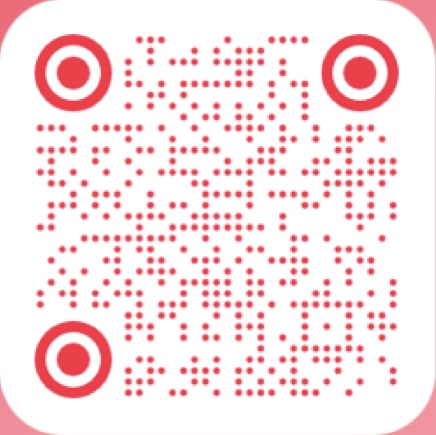
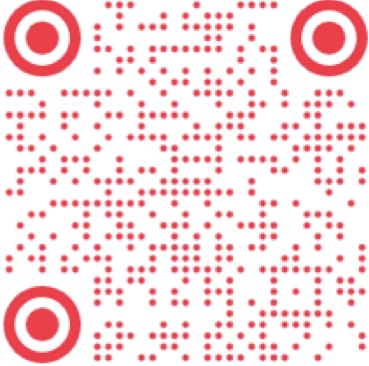
Change webapp destination

diff --git a/_includes/header.html b/_includes/header.html
@@ -32,12 +32,12 @@
 				</a></li>
 			{% endif %}
 			{% if site.presskit_download_link %}
-			<li><a href="{{ site.presskit_download_link }}">
+			<li><a href="{{ site.presskit_download_link2 }}">
 					发现
 				</a></li>
 			{% endif %}
 			{% if site.presskit_download_link %}
-			<li><a href="{{ site.presskit_download_link }}">
+			<li><a href="{{ site.presskit_download_link3 }}">
 					账户
 				</a></li>
 			{% endif %}

diff --git a/_includes/contactform.html b/_includes/contactform.html
@@ -121,7 +121,7 @@
 
 <body>
 
-  <div class="title">
+  <div id="contact-us" class="title">
     <h1>联系我们</h1>
   </div>
   <div class="features">
